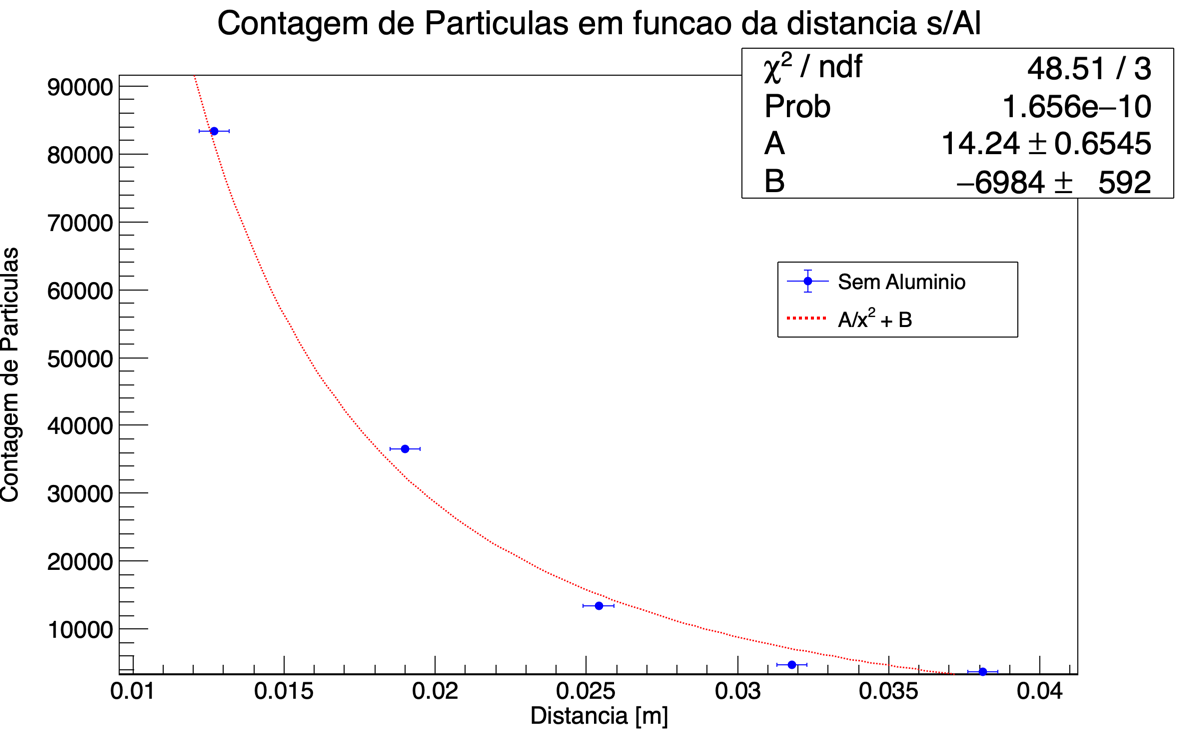
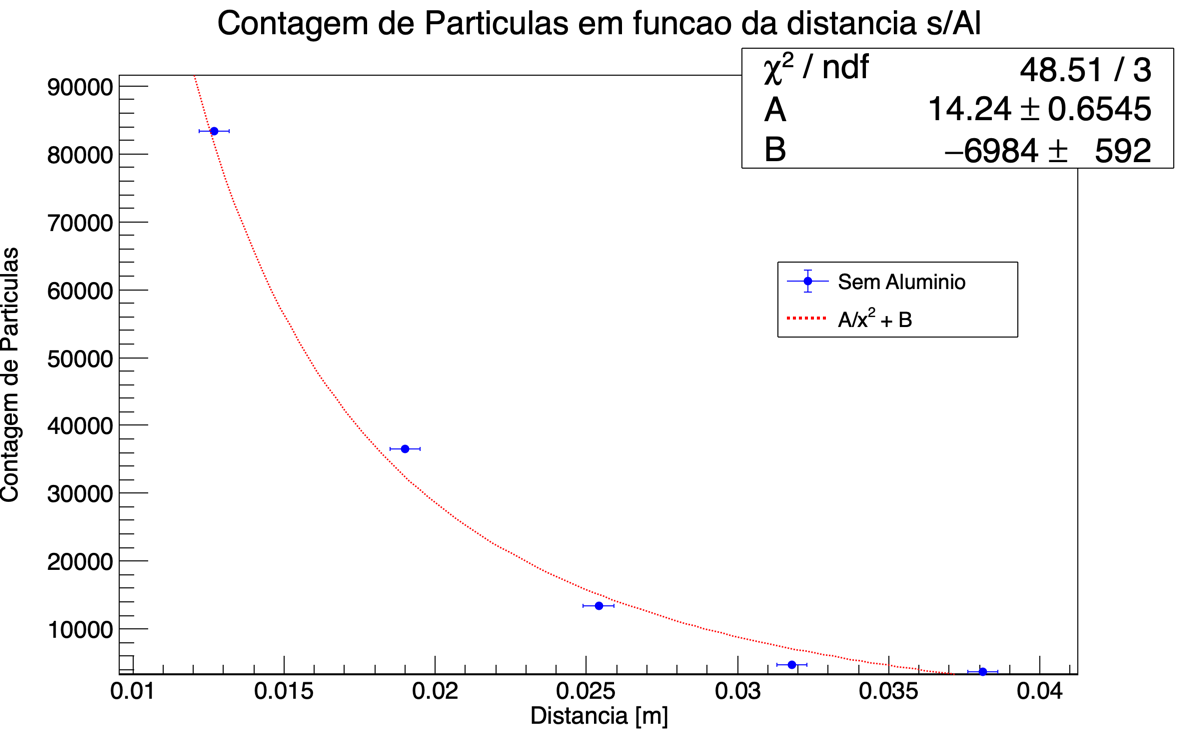
New Graph

Changed region(s): [[0.7721, 0.0613, 0.9883, 0.276], [0.6177, 0.0613, 0.7412, 0.276]]

diff --git a/Geiger_Muller/main/analise.cpp b/Geiger_Muller/main/analise.cpp
@@ -44,7 +44,7 @@ for (int i = 0; i < numPoints; i++) {
 }
 
 TGraphErrors graph_plateau(numPoints, &xValues[0], &yValues[0], &exValues[0], &eyValues[0]);
-gStyle->SetOptFit(1111);
+gStyle->SetOptFit(111);
 // Set Graph Style
 graph_plateau.SetMarkerStyle(20);
 graph_plateau.SetMarkerColor(kRed);
@@ -89,10 +89,17 @@ gSystem->ProcessEvents();
     vector<double> counts_without_al = {83388, 36599, 13334, 4711, 3747};
     vector<double> counts_without_al_uncertain = {289, 191, 115, 69, 61};
     vector<double> uncertainty_distance = {0.0005, 0.0005, 0.0005, 0.0005, 0.0005};
+    vector<double> counts_subtracted(counts_al.size());
+    vector<double> counts_subtracted_uncertain(counts_al.size());
+    for(int i = 0; i < counts_subtracted.size(); i++){
+        counts_subtracted[i] = counts_without_al[i] - counts_al[i];
+        counts_subtracted_uncertain[i] = sqrt(counts_without_al_uncertain[i]*counts_without_al_uncertain[i] + counts_al_uncertain[i]*counts_al_uncertain[i]);
+    }
 
     // Create Graph
     TGraphErrors graph_al(distances.size(), &distances[0], &counts_al[0], &uncertainty_distance[0], &counts_al_uncertain[0]);
     TGraphErrors graph_without_al(distances.size(), &distances[0], &counts_without_al[0], &uncertainty_distance[0], &counts_without_al_uncertain[0]);
+    TGraphErrors graph_subtracted(distances.size(), &distances[0], &counts_subtracted[0], &uncertainty_distance[0], &counts_subtracted_uncertain[0]);
 
     // Set Graph Style
     graph_al.SetMarkerStyle(20);
@@ -112,6 +119,15 @@ gSystem->ProcessEvents();
     graph_without_al.GetYaxis()->SetTitle("Contagem de Particulas");
     graph_without_al.GetXaxis()->CenterTitle();
     graph_without_al.GetYaxis()->CenterTitle();
+
+    graph_subtracted.SetMarkerStyle(20);
+    graph_subtracted.SetMarkerColor(kGreen);
+    graph_subtracted.SetLineColor(kGreen);
+    graph_subtracted.SetTitle("Contagem de Particulas em funcao da distancia s/Al - c/Al");
+    graph_subtracted.GetXaxis()->SetTitle("Distancia [m]");
+    graph_subtracted.GetYaxis()->SetTitle("Contagem de Particulas");
+    graph_subtracted.GetXaxis()->CenterTitle();
+    graph_subtracted.GetYaxis()->CenterTitle();
 
     // Create Legend
     TLegend legend(0.65, 0.55, 0.85, 0.65);
@@ -191,6 +207,33 @@ gSystem->ProcessEvents();
     c1.Update();
     c1.SaveAs("graphs/contagem_without_al_c.png");
     c1.WaitPrimitive();
+
+    // Draw Graph
+    c1.Clear();
+    legend.Clear();
+    graph_subtracted.Fit(&fit, "R");
+    legend.AddEntry(&graph_subtracted, "Subtraido", "lep");
+    legend.AddEntry(&fit, "A/x^{2} + B", "l");
+    graph_subtracted.Draw("AP");
+    legend.Draw();
+    c1.Update();
+    c1.SaveAs("graphs/contagem_subtracted.png");
+    c1.WaitPrimitive();
+
+    // Draw Graph
+    c1.Clear();
+    legend.Clear();
+    graph_subtracted.Fit(&fit2, "R");
+    legend.AddEntry(&graph_subtracted, "Subtraido", "lep");
+    legend.AddEntry(&fit2, "A/(x+C)^{2} + B", "l");
+    graph_subtracted.Draw("AP");
+    legend.Draw();
+    c1.Update();
+    c1.SaveAs("graphs/contagem_subtracted_c.png");
+    c1.WaitPrimitive();
+    
+
+
 
 
 
